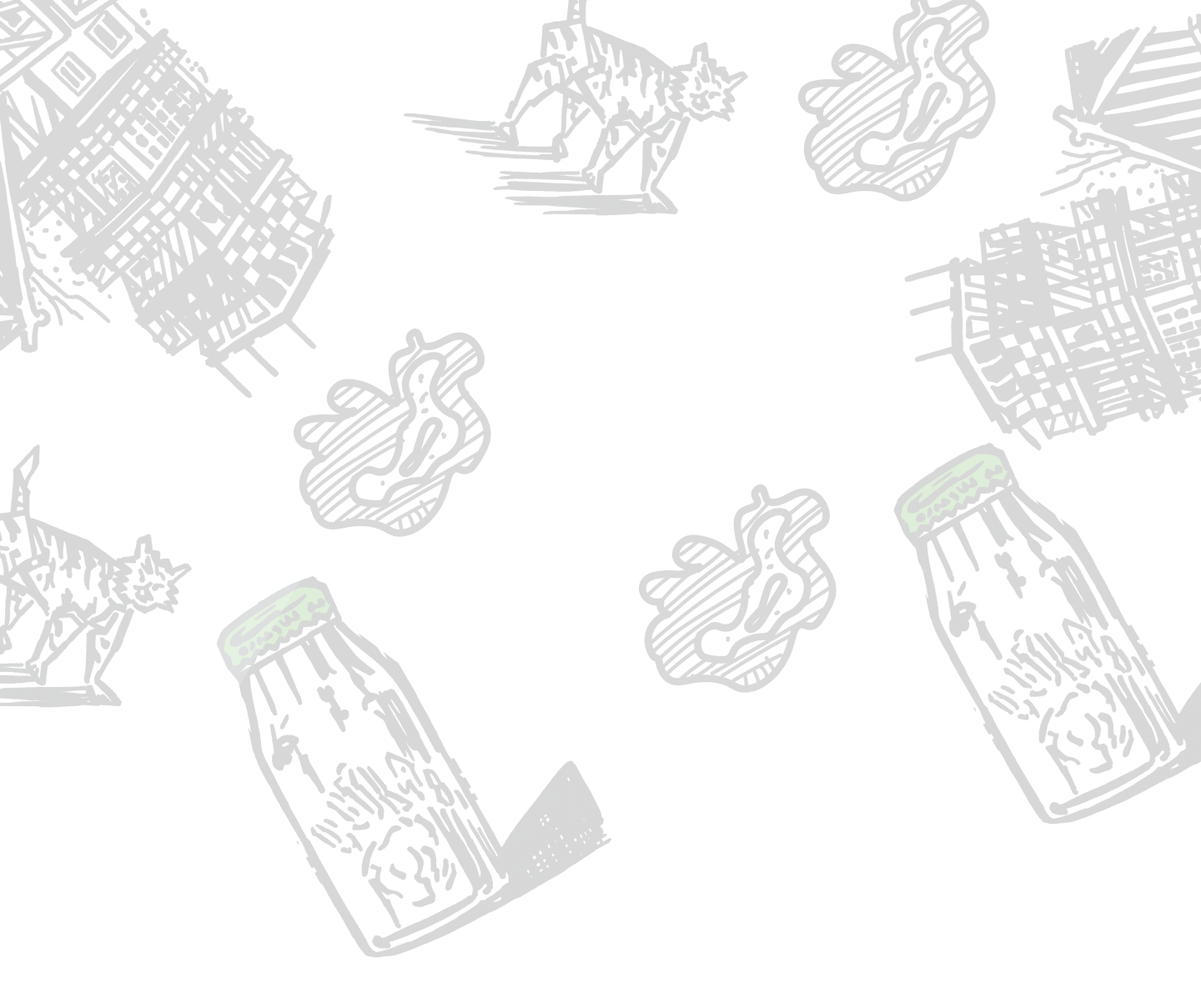
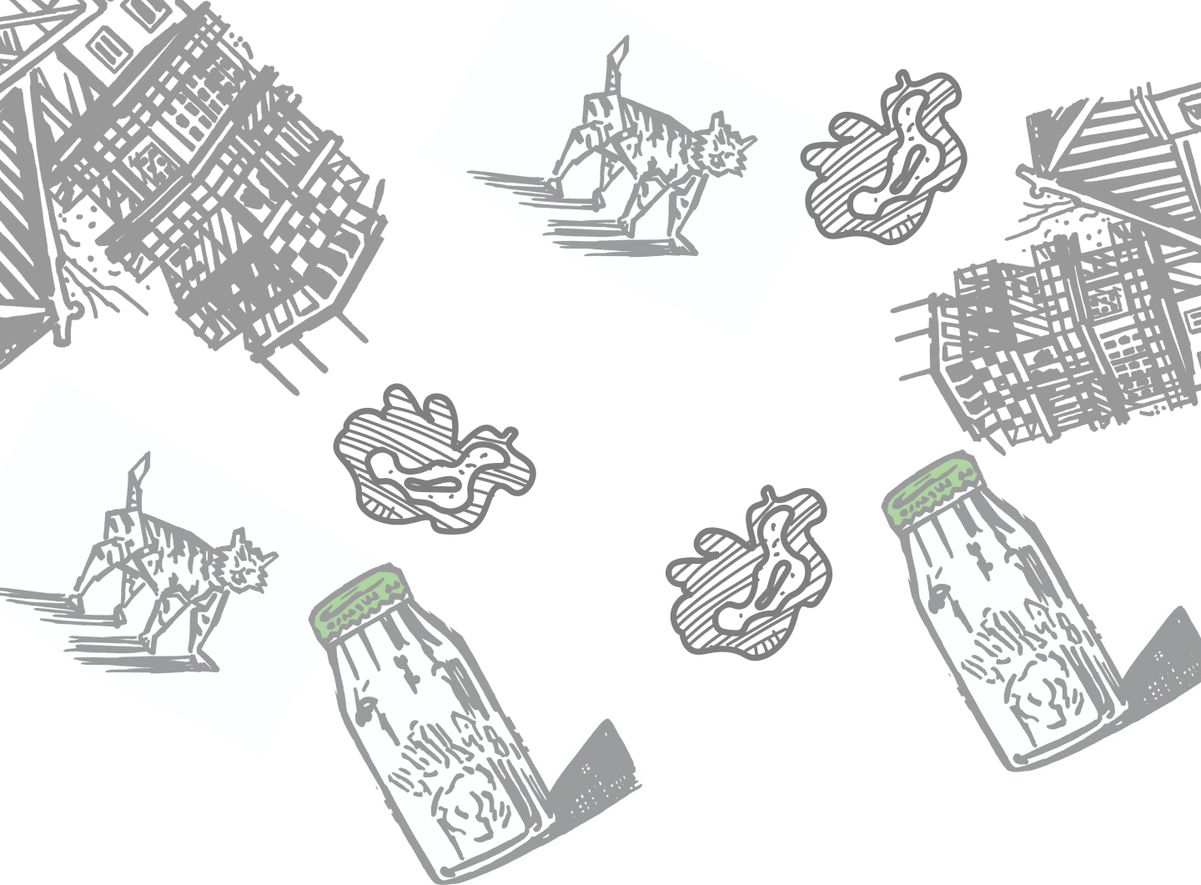
added new homepage layout. added all images from interactions. added what was missing on the first interaction.

diff --git a/css/application.css b/css/application.css
@@ -1,1 +1,1 @@
-@import url("https://fonts.googleapis.com/css2?family=Permanent+Marker&display=swap");html,body,div,span,.instructions .interaction-start p,.instructions .interaction-start nav .about-link,nav .instructions .interaction-start .about-link,object,iframe,h1,h2,h3,h4,h5,h6,p,nav .about-link,blockquote,pre,a,abbr,address,cite,code,del,dfn,em,img,ins,kbd,q,samp,img,input,button,.about .close-page,textarea,small,strong,sub,sup,var,b,u,i,dl,dt,dd,ol,ul,li,fieldset,form,label,legend,caption,table,thead,tbody,tfoot,th,tr,td,article,aside,canvas,details,figcaption,figure,footer,header,hgroup,main,menu,nav,section,summary,time,mark,audio,video{appearance:none;background:transparent;border:0;border-collapse:collapse;border-radius:0;border-spacing:0;box-sizing:border-box;font-family:inherit;font-size:100%;line-height:140%;list-style:none;margin:0;padding:0;resize:none;vertical-align:baseline}article,aside,details,figcaption,figure,footer,header,hgroup,main,menu,nav,section{display:block}input,select{vertical-align:middle}input[type="search"]::-ms-clear{display:none;height:0;width:0}input[type="search"]::-ms-reveal{display:none;height:0;width:0}input[type="search"]::-webkit-search-decoration,input[type="search"]::-webkit-search-cancel-button,input[type="search"]::-webkit-search-results-button,input[type="search"]::-webkit-search-results-decoration{display:none}html,body{height:100%}html{text-rendering:optimizeLegibility;font-kerning:normal;-webkit-font-smoothing:antialiased;-moz-osx-font-smoothing:grayscale;font-size:62.5%;text-size-adjust:100%}body{letter-spacing:0.01em;line-height:1}@keyframes fade-in{from{opacity:0}to{opacity:1}}@keyframes scale-up{from{transform:scale(0.8);opacity:0}to{transform:scale(1);opacity:1}}@font-face{font-family:"Monstarize";src:url("../fonts/Monstarize/MONSTARIZE.eot");src:url("../fonts/Monstarize/MONSTARIZE.eot?#iefix") format("embedded-opentype"),url("../fonts/Monstarize/MONSTARIZE.ttf") format("truetype"),url("../fonts/Monstarize/MONSTARIZE.svg#Monstarize") format("svg");font-weight:normal;font-style:normal}@font-face{font-family:"Helvetica";src:url("../fonts/Helvetica/Helvetica.eot");src:url("../fonts/Helvetica/Helvetica.eot?#iefix") format("embedded-opentype"),url("../fonts/Helvetica/Helvetica.ttf") format("truetype"),url("../fonts/Helvetica/Helvetica.svg#Helvetica") format("svg");font-weight:normal;font-style:normal}@font-face{font-family:"Helvetica Light";src:url("../fonts/Helvetica/Helvetica-Light.eot");src:url("../fonts/Helvetica/Helvetica-Light.eot?#iefix") format("embedded-opentype"),url("../fonts/Helvetica/Helvetica-Light.ttf") format("truetype"),url("../fonts/Helvetica/Helvetica-Light.svg#Helvetica Light") format("svg");font-weight:normal;font-style:normal}@font-face{font-family:"Helvetica Bold";src:url("../fonts/Helvetica/Helvetica-Bold.eot");src:url("../fonts/Helvetica/Helvetica-Bold.eot?#iefix") format("embedded-opentype"),url("../fonts/Helvetica/Helvetica-Bold.ttf") format("truetype"),url("../fonts/Helvetica/Helvetica-Bold.svg#Helvetica Bold") format("svg");font-weight:normal;font-style:normal}@font-face{font-family:"Helvetica Oblique";src:url("../fonts/Helvetica/Helvetica-Oblique.eot");src:url("../fonts/Helvetica/Helvetica-Oblique.eot?#iefix") format("embedded-opentype"),url("../fonts/Helvetica/Helvetica-Oblique.ttf") format("truetype"),url("../fonts/Helvetica/Helvetica-Oblique.svg#Helvetica Oblique") format("svg");font-weight:normal;font-style:normal}@font-face{font-family:"Helvetica Light Oblique";src:url("../fonts/Helvetica/Helvetica-LightOblique.eot");src:url("../fonts/Helvetica/Helvetica-LightOblique.eot?#iefix") format("embedded-opentype"),url("../fonts/Helvetica/Helvetica-LightOblique.ttf") format("truetype"),url("../fonts/Helvetica/Helvetica-LightOblique.svg#Helvetica Light Oblique") format("svg");font-weight:normal;font-style:normal}@font-face{font-family:"Helvetica Bold Oblique";src:url("../fonts/Helvetica/Helvetica-BoldOblique.eot");src:url("../fonts/Helvetica/Helvetica-BoldOblique.eot?#iefix") format("embedded-opentype"),url("../fonts/Helvetica/Helvetica-BoldOblique.ttf") format("truetype"),url("../fonts/Helvetica/Helvetica-BoldOblique.svg#Helvetica Bold Oblique") format("svg");font-weight:normal;font-style:normal}body{line-height:1.5;font-weight:400;font-size:1.4rem;font-family:"Permanent Marker", cursive;font-style:normal;color:#000;overflow-x:hidden}@media (min-width: 750px){body{font-size:calc(1.4rem + ((1.6 * 10) - (1.4 * 10)) * ((100vw - 650px) / 550))}}@media (min-width: 1000px){body{font-size:1.6rem}}.fixed-position{position:fixed}[data-whatintent="mouse"] a:focus,[data-whatintent="mouse"] button:focus,[data-whatintent="mouse"] .about .close-page:focus,.about [data-whatintent="mouse"] .close-page:focus,[data-whatintent="touch"] a:focus,[data-whatintent="touch"] button:focus,[data-whatintent="touch"] .about .close-page:focus,.about [data-whatintent="touch"] .close-page:focus{outline:none}a{color:#000;text-decoration:none}section{padding:2vh 2vw;overflow:hidden}span.underline,.instructions .interaction-start p.underline,.instructions .interaction-start nav .underline.about-link,nav .instructions .interaction-start .underline.about-link{background-image:linear-gradient(to bottom, rgba(235,100,170,0) 60%, #EA4A9D 60%);background-position:0 -0.3em;background-size:1px 1.5em}h1{line-height:1.5;font-weight:400;font-size:3rem}@media (min-width: 750px){h1{font-size:calc(3rem + ((4.5 * 10) - (3 * 10)) * ((100vw - 650px) / 550))}}@media (min-width: 1000px){h1{font-size:4.5rem}}h1.big,nav .logo h1{line-height:1.5;font-weight:400;font-size:7rem}@media (min-width: 750px){h1.big,nav .logo h1{font-size:calc(7rem + ((10.8 * 10) - (7 * 10)) * ((100vw - 650px) / 550))}}@media (min-width: 1000px){h1.big,nav .logo h1{font-size:10.8rem}}h2{line-height:1.5;font-weight:700;font-size:2.4rem}@media (min-width: 750px){h2{font-size:calc(2.4rem + ((2.8 * 10) - (2.4 * 10)) * ((100vw - 650px) / 550))}}@media (min-width: 1000px){h2{font-size:2.8rem}}h2.big,nav .logo h2{line-height:1.5;font-weight:400;font-size:5rem}@media (min-width: 750px){h2.big,nav .logo h2{font-size:calc(5rem + ((7 * 10) - (5 * 10)) * ((100vw - 650px) / 550))}}@media (min-width: 1000px){h2.big,nav .logo h2{font-size:7rem}}h3{line-height:1.5;font-weight:700;font-size:2rem}@media (min-width: 750px){h3{font-size:calc(2rem + ((2.4 * 10) - (2 * 10)) * ((100vw - 650px) / 550))}}@media (min-width: 1000px){h3{font-size:2.4rem}}p,nav .about-link,ul,li,q,address{font-family:"Helvetica", sans-serif;line-height:1.5;font-weight:400;font-size:2rem}@media (min-width: 750px){p,nav .about-link,ul,li,q,address{font-size:calc(2rem + ((2.4 * 10) - (2 * 10)) * ((100vw - 650px) / 550))}}@media (min-width: 1000px){p,nav .about-link,ul,li,q,address{font-size:2.4rem}}p.pink,nav .pink.about-link,ul.pink,li.pink,q.pink,address.pink{color:#EB64AA}button,.about .close-page{line-height:1.5;font-weight:400;font-size:2.5rem}@media (min-width: 750px){button,.about .close-page{font-size:calc(2.5rem + ((3.5 * 10) - (2.5 * 10)) * ((100vw - 650px) / 550))}}@media (min-width: 1000px){button,.about .close-page{font-size:3.5rem}}span,.instructions .interaction-start p,.instructions .interaction-start nav .about-link,nav .instructions .interaction-start .about-link{text-transform:uppercase;font-family:"Helvetica", sans-serif;line-height:1.5;font-weight:400;font-size:1.4rem}@media (min-width: 750px){span,.instructions .interaction-start p,.instructions .interaction-start nav .about-link,nav .instructions .interaction-start .about-link{font-size:calc(1.4rem + ((1.8 * 10) - (1.4 * 10)) * ((100vw - 650px) / 550))}}@media (min-width: 1000px){span,.instructions .interaction-start p,.instructions .interaction-start nav .about-link,nav .instructions .interaction-start .about-link{font-size:1.8rem}}@keyframes pulse{0%{transform:scale(0.95);box-shadow:0 0 0 0 rgba(234,74,157,0.7)}70%{transform:scale(1);box-shadow:0 0 0 10px rgba(234,74,157,0)}100%{transform:scale(0.95);box-shadow:0 0 0 0 rgba(234,74,157,0)}}@-webkit-keyframes pulsate{0%{opacity:0.6}50%{opacity:1.0}100%{opacity:0.6}}nav{width:100vw;height:80vh;padding:2vh 2vw;position:fixed;z-index:1}nav.adjust-size{height:fit-content;height:-webkit-fit-content}nav .link{height:fit-content;width:fit-content;height:-webkit-fit-content;width:-webkit-fit-content;cursor:pointer}nav .link:hover{color:#EA4A9D}nav .about-link{letter-spacing:-1px;font-family:"Helvetica Bold", sans-serif;float:right}nav .logo{width:fit-content;width:-webkit-fit-content;margin:320px auto auto 33%;transition:all 1s ease-out}nav .logo h1,nav .logo h2{width:fit-content;width:-webkit-fit-content;margin:auto}nav .logo h1{transition:all 1s ease-out}nav .logo h2{font-family:"Helvetica Bold", sans-serif;letter-spacing:-1px;line-height:30%;transition:all 1s ease-out}nav .logo.adjust-position{margin-top:0;margin-left:0}nav .logo.adjust-position h1{line-height:1.5;font-weight:400;font-size:3rem;color:#4C9054}@media (min-width: 750px){nav .logo.adjust-position h1{font-size:calc(3rem + ((4.5 * 10) - (3 * 10)) * ((100vw - 650px) / 550))}}@media (min-width: 1000px){nav .logo.adjust-position h1{font-size:4.5rem}}nav .logo.adjust-position h2{line-height:1.5;font-weight:700;font-size:2.4rem;color:#4C9054;line-height:10%}@media (min-width: 750px){nav .logo.adjust-position h2{font-size:calc(2.4rem + ((2.8 * 10) - (2.4 * 10)) * ((100vw - 650px) / 550))}}@media (min-width: 1000px){nav .logo.adjust-position h2{font-size:2.8rem}}.cover{width:900px;height:691.2px;box-shadow:0 0 300px rgba(0,0,0,0.3);margin:40px auto 0 auto}.book{width:100%;height:100%;display:flex;perspective:2000px}.book p,.book nav .about-link,nav .book .about-link{font-size:12px}.book-page{position:relative;width:50%;height:100%;display:grid;transform:rotateY(0deg);transition:transform 0.9s cubic-bezier(0.645, 0.045, 0.355, 1);transform-origin:0% 0%;background-color:#FAFAFA;background-image:linear-gradient(90deg, #e3e3e3 0%, rgba(247,247,247,0) 18%)}.book-page:nth-of-type(1){background-image:linear-gradient(-90deg, #e3e3e3 0%, rgba(247,247,247,0) 18%)}.book-page--1{cursor:pointer;overflow:hidden}.book-page--1 img{width:auto;max-width:100%;height:80%}.book-page--2{position:absolute;right:0;pointer-events:none;transform-style:preserve-3d;background-color:#FAFAFA;background-image:linear-gradient(90deg, #e3e3e3 0%, rgba(247,247,247,0) 18%)}.book-page--4{cursor:pointer;padding:0 36px}.book-page--front{position:absolute;width:100%;height:100%;transform:rotateY(0deg) translateZ(1px);overflow:hidden}.book-page--front img{padding:32px;width:100%}.book-page--back{position:absolute;width:100%;height:100%;padding:0 21.6px;transform:rotateY(180deg) translateZ(1px)}.book-page .page-content{padding:24px;height:100%;position:relative}.book-page .page-content.double-column{display:grid;grid-template-columns:repeat(2, 1fr);grid-template-rows:min-content;grid-gap:16px;padding:0 32px;margin:24px 0}.book-page .page-content-title{letter-spacing:1px;margin-top:18px;margin-bottom:36px}.book-page .page-content-blockquote{padding:0 16px;margin:24px 0}.book input[type="radio"]:checked+.book-page{transition:transform 0.9s cubic-bezier(0.645, 0.045, 0.355, 1);transform:rotateY(-180deg)}.instructions{width:100vw;height:100vh;display:flex;flex-direction:column;justify-content:center;align-items:center}.instructions .content-wrapper{width:50%}.instructions .content-wrapper h1{color:#EA4A9D;margin-bottom:16px}.instructions .interaction-start{position:absolute;bottom:-90vh;width:15%;height:fit-content;height:-webkit-fit-content;text-align:center}.instructions .interaction-start p,.instructions .interaction-start nav .about-link,nav .instructions .interaction-start .about-link{text-transform:initial;font-family:"Helvetica Light", sans-serif;animation:pulsate 1s ease-out;animation-iteration-count:infinite;-webkit-animation:pulsate 1s ease-out;-webkit-animation-iteration-count:infinite;opacity:0.6}.interaction-one{position:relative;width:100vw;height:100vh;display:flex;justify-content:flex-end;align-items:flex-end;background-image:url("../media/svg/fundo.svg");background-size:cover;background-position:center}.interaction-one .drag-start{width:30rem;height:60rem;position:absolute;left:640px;top:64px}.interaction-one .drag-end{position:relative;z-index:-1;width:4rem;height:4rem;border-radius:32px;border:solid 1px #EA4A9D;margin:128px auto 0 auto;box-shadow:0 0 0 0 #ea4a9d;transform:scale(1);animation:pulse 2s infinite}.interaction-one .drag-instruction{z-index:1;background-color:#EA4A9D;width:50rem;height:fit-content;height:-webkit-fit-content;border-radius:8px;padding:16px;box-shadow:2px 5px 6px 0 rgba(0,0,0,0.25);margin:0 24px 32px 0}.interaction-one .drag-instruction p,.interaction-one .drag-instruction nav .about-link,nav .interaction-one .drag-instruction .about-link{font-family:"Permanent Marker", cursive;color:#FAFAFA}.interaction-two{width:100vw;height:100vh;background-image:url("../media/book1.jpg");background-size:contain;background-position:center;background-repeat:no-repeat}.homepage{width:100vw;height:100vh;display:flex;flex-direction:column;align-items:center;justify-content:space-between}.homepage::before{content:"";background-image:url("../media/fundo.png");background-size:cover;background-position:center;top:0;left:0;bottom:-40vh;right:0;position:absolute;z-index:-1}.homepage::after{content:"";background-image:url("../media/banner.png");background-size:100vw 200vh;background-position:center;background-repeat:no-repeat;top:0;left:0;right:0;bottom:-100vh;position:absolute;z-index:-1}.homepage .chevron-down{position:absolute;bottom:0;cursor:pointer;margin-bottom:24px}.about{width:100vw;height:100vh;position:fixed;background-color:#D7D7D7;top:0;bottom:0;left:100vw;right:-100vw;z-index:10;transition:all 1s ease}.about.opened{left:0;right:0}.about .close-page{line-height:80%;float:right;cursor:pointer}.about .close-page:hover{color:#EA4A9D}.about .info-wrapper{width:fit-content;width:-webkit-fit-content;margin:32px auto;text-align:center}.about .info-wrapper .book-author:before{content:"—"}.about .book-wrapper{perspective:2000px}
+@import url("https://fonts.googleapis.com/css2?family=Permanent+Marker&display=swap");html,body,div,span,.instructions .interaction-start p,.instructions .interaction-start nav .about-link,nav .instructions .interaction-start .about-link,object,iframe,h1,h2,h3,h4,h5,h6,p,nav .about-link,blockquote,pre,a,abbr,address,cite,code,del,dfn,em,img,ins,kbd,q,samp,img,input,button,.about .close-page,textarea,small,strong,sub,sup,var,b,u,i,dl,dt,dd,ol,ul,li,fieldset,form,label,legend,caption,table,thead,tbody,tfoot,th,tr,td,article,aside,canvas,details,figcaption,figure,footer,header,hgroup,main,menu,nav,section,summary,time,mark,audio,video{appearance:none;background:transparent;border:0;border-collapse:collapse;border-radius:0;border-spacing:0;box-sizing:border-box;font-family:inherit;font-size:100%;line-height:140%;list-style:none;margin:0;padding:0;resize:none;vertical-align:baseline}article,aside,details,figcaption,figure,footer,header,hgroup,main,menu,nav,section{display:block}input,select{vertical-align:middle}input[type="search"]::-ms-clear{display:none;height:0;width:0}input[type="search"]::-ms-reveal{display:none;height:0;width:0}input[type="search"]::-webkit-search-decoration,input[type="search"]::-webkit-search-cancel-button,input[type="search"]::-webkit-search-results-button,input[type="search"]::-webkit-search-results-decoration{display:none}html,body{height:100%}html{text-rendering:optimizeLegibility;font-kerning:normal;-webkit-font-smoothing:antialiased;-moz-osx-font-smoothing:grayscale;font-size:62.5%;text-size-adjust:100%}body{letter-spacing:0.01em;line-height:1}@keyframes fade-in{from{opacity:0}to{opacity:1}}@keyframes scale-up{from{transform:scale(0.8);opacity:0}to{transform:scale(1);opacity:1}}@font-face{font-family:"Monstarize";src:url("../fonts/Monstarize/MONSTARIZE.eot");src:url("../fonts/Monstarize/MONSTARIZE.eot?#iefix") format("embedded-opentype"),url("../fonts/Monstarize/MONSTARIZE.ttf") format("truetype"),url("../fonts/Monstarize/MONSTARIZE.svg#Monstarize") format("svg");font-weight:normal;font-style:normal}@font-face{font-family:"Helvetica";src:url("../fonts/Helvetica/Helvetica.eot");src:url("../fonts/Helvetica/Helvetica.eot?#iefix") format("embedded-opentype"),url("../fonts/Helvetica/Helvetica.ttf") format("truetype"),url("../fonts/Helvetica/Helvetica.svg#Helvetica") format("svg");font-weight:normal;font-style:normal}@font-face{font-family:"Helvetica Light";src:url("../fonts/Helvetica/Helvetica-Light.eot");src:url("../fonts/Helvetica/Helvetica-Light.eot?#iefix") format("embedded-opentype"),url("../fonts/Helvetica/Helvetica-Light.ttf") format("truetype"),url("../fonts/Helvetica/Helvetica-Light.svg#Helvetica Light") format("svg");font-weight:normal;font-style:normal}@font-face{font-family:"Helvetica Bold";src:url("../fonts/Helvetica/Helvetica-Bold.eot");src:url("../fonts/Helvetica/Helvetica-Bold.eot?#iefix") format("embedded-opentype"),url("../fonts/Helvetica/Helvetica-Bold.ttf") format("truetype"),url("../fonts/Helvetica/Helvetica-Bold.svg#Helvetica Bold") format("svg");font-weight:normal;font-style:normal}@font-face{font-family:"Helvetica Oblique";src:url("../fonts/Helvetica/Helvetica-Oblique.eot");src:url("../fonts/Helvetica/Helvetica-Oblique.eot?#iefix") format("embedded-opentype"),url("../fonts/Helvetica/Helvetica-Oblique.ttf") format("truetype"),url("../fonts/Helvetica/Helvetica-Oblique.svg#Helvetica Oblique") format("svg");font-weight:normal;font-style:normal}@font-face{font-family:"Helvetica Light Oblique";src:url("../fonts/Helvetica/Helvetica-LightOblique.eot");src:url("../fonts/Helvetica/Helvetica-LightOblique.eot?#iefix") format("embedded-opentype"),url("../fonts/Helvetica/Helvetica-LightOblique.ttf") format("truetype"),url("../fonts/Helvetica/Helvetica-LightOblique.svg#Helvetica Light Oblique") format("svg");font-weight:normal;font-style:normal}@font-face{font-family:"Helvetica Bold Oblique";src:url("../fonts/Helvetica/Helvetica-BoldOblique.eot");src:url("../fonts/Helvetica/Helvetica-BoldOblique.eot?#iefix") format("embedded-opentype"),url("../fonts/Helvetica/Helvetica-BoldOblique.ttf") format("truetype"),url("../fonts/Helvetica/Helvetica-BoldOblique.svg#Helvetica Bold Oblique") format("svg");font-weight:normal;font-style:normal}body{line-height:1.5;font-weight:400;font-size:1.4rem;font-family:"Permanent Marker", cursive;font-style:normal;color:#000;overflow-x:hidden}@media (min-width: 750px){body{font-size:calc(1.4rem + ((1.6 * 10) - (1.4 * 10)) * ((100vw - 650px) / 550))}}@media (min-width: 1000px){body{font-size:1.6rem}}.fixed-position{position:fixed}[data-whatintent="mouse"] a:focus,[data-whatintent="mouse"] button:focus,[data-whatintent="mouse"] .about .close-page:focus,.about [data-whatintent="mouse"] .close-page:focus,[data-whatintent="touch"] a:focus,[data-whatintent="touch"] button:focus,[data-whatintent="touch"] .about .close-page:focus,.about [data-whatintent="touch"] .close-page:focus{outline:none}a{color:#000;text-decoration:none}section{padding:2vh 2vw;overflow:hidden}span.underline,.instructions .interaction-start p.underline,.instructions .interaction-start nav .underline.about-link,nav .instructions .interaction-start .underline.about-link{background-image:linear-gradient(to bottom, rgba(235,100,170,0) 60%, #EA4A9D 60%);background-position:0 -0.3em;background-size:1px 1.5em}h1{line-height:1.5;font-weight:400;font-size:3rem}@media (min-width: 750px){h1{font-size:calc(3rem + ((4.5 * 10) - (3 * 10)) * ((100vw - 650px) / 550))}}@media (min-width: 1000px){h1{font-size:4.5rem}}h1.big,nav .logo h1{line-height:1.5;font-weight:400;font-size:7rem}@media (min-width: 750px){h1.big,nav .logo h1{font-size:calc(7rem + ((10.8 * 10) - (7 * 10)) * ((100vw - 650px) / 550))}}@media (min-width: 1000px){h1.big,nav .logo h1{font-size:10.8rem}}h2{line-height:1.5;font-weight:700;font-size:2.4rem}@media (min-width: 750px){h2{font-size:calc(2.4rem + ((2.8 * 10) - (2.4 * 10)) * ((100vw - 650px) / 550))}}@media (min-width: 1000px){h2{font-size:2.8rem}}h2.big,nav .logo h2{line-height:1.5;font-weight:400;font-size:5rem}@media (min-width: 750px){h2.big,nav .logo h2{font-size:calc(5rem + ((7 * 10) - (5 * 10)) * ((100vw - 650px) / 550))}}@media (min-width: 1000px){h2.big,nav .logo h2{font-size:7rem}}h3{line-height:1.5;font-weight:700;font-size:2rem}@media (min-width: 750px){h3{font-size:calc(2rem + ((2.4 * 10) - (2 * 10)) * ((100vw - 650px) / 550))}}@media (min-width: 1000px){h3{font-size:2.4rem}}p,nav .about-link,ul,li,q,address{font-family:"Helvetica", sans-serif;line-height:1.5;font-weight:400;font-size:2rem}@media (min-width: 750px){p,nav .about-link,ul,li,q,address{font-size:calc(2rem + ((2.4 * 10) - (2 * 10)) * ((100vw - 650px) / 550))}}@media (min-width: 1000px){p,nav .about-link,ul,li,q,address{font-size:2.4rem}}p.pink,nav .pink.about-link,ul.pink,li.pink,q.pink,address.pink{color:#EB64AA}button,.about .close-page{line-height:1.5;font-weight:400;font-size:2.5rem}@media (min-width: 750px){button,.about .close-page{font-size:calc(2.5rem + ((3.5 * 10) - (2.5 * 10)) * ((100vw - 650px) / 550))}}@media (min-width: 1000px){button,.about .close-page{font-size:3.5rem}}span,.instructions .interaction-start p,.instructions .interaction-start nav .about-link,nav .instructions .interaction-start .about-link{text-transform:uppercase;font-family:"Helvetica", sans-serif;line-height:1.5;font-weight:400;font-size:1.4rem}@media (min-width: 750px){span,.instructions .interaction-start p,.instructions .interaction-start nav .about-link,nav .instructions .interaction-start .about-link{font-size:calc(1.4rem + ((1.8 * 10) - (1.4 * 10)) * ((100vw - 650px) / 550))}}@media (min-width: 1000px){span,.instructions .interaction-start p,.instructions .interaction-start nav .about-link,nav .instructions .interaction-start .about-link{font-size:1.8rem}}@keyframes pulse{0%{transform:scale(0.95);box-shadow:0 0 0 0 rgba(234,74,157,0.7)}70%{transform:scale(1);box-shadow:0 0 0 10px rgba(234,74,157,0)}100%{transform:scale(0.95);box-shadow:0 0 0 0 rgba(234,74,157,0)}}@-webkit-keyframes pulsate{0%{opacity:0.6}50%{opacity:1.0}100%{opacity:0.6}}nav{width:100vw;height:80vh;padding:2vh 2vw;position:fixed;z-index:1}nav.adjust-size{height:fit-content;height:-webkit-fit-content}nav .link{height:fit-content;width:fit-content;height:-webkit-fit-content;width:-webkit-fit-content;cursor:pointer}nav .link:hover{color:#EA4A9D}nav .about-link{letter-spacing:-1px;font-family:"Helvetica Bold", sans-serif;float:right}nav .logo{width:fit-content;width:-webkit-fit-content;margin:320px auto auto 33%;transition:all 1s ease-out}nav .logo h1,nav .logo h2{width:fit-content;width:-webkit-fit-content;margin:auto}nav .logo h1{transition:all 1s ease-out}nav .logo h2{font-family:"Helvetica Bold", sans-serif;letter-spacing:-1px;line-height:30%;transition:all 1s ease-out}nav .logo.adjust-position{margin-top:0;margin-left:0}nav .logo.adjust-position h1{line-height:1.5;font-weight:400;font-size:3rem;color:#4C9054}@media (min-width: 750px){nav .logo.adjust-position h1{font-size:calc(3rem + ((4.5 * 10) - (3 * 10)) * ((100vw - 650px) / 550))}}@media (min-width: 1000px){nav .logo.adjust-position h1{font-size:4.5rem}}nav .logo.adjust-position h2{line-height:1.5;font-weight:700;font-size:2.4rem;color:#4C9054;line-height:10%}@media (min-width: 750px){nav .logo.adjust-position h2{font-size:calc(2.4rem + ((2.8 * 10) - (2.4 * 10)) * ((100vw - 650px) / 550))}}@media (min-width: 1000px){nav .logo.adjust-position h2{font-size:2.8rem}}.cover{width:900px;height:691.2px;box-shadow:0 0 300px rgba(0,0,0,0.3);margin:40px auto 0 auto}.book{width:100%;height:100%;display:flex;perspective:2000px}.book p,.book nav .about-link,nav .book .about-link{font-size:12px}.book-page{position:relative;width:50%;height:100%;display:grid;transform:rotateY(0deg);transition:transform 0.9s cubic-bezier(0.645, 0.045, 0.355, 1);transform-origin:0% 0%;background-color:#FAFAFA;background-image:linear-gradient(90deg, #e3e3e3 0%, rgba(247,247,247,0) 18%)}.book-page:nth-of-type(1){background-image:linear-gradient(-90deg, #e3e3e3 0%, rgba(247,247,247,0) 18%)}.book-page--1{cursor:pointer;overflow:hidden}.book-page--1 img{width:auto;max-width:100%;height:80%}.book-page--2{position:absolute;right:0;pointer-events:none;transform-style:preserve-3d;background-color:#FAFAFA;background-image:linear-gradient(90deg, #e3e3e3 0%, rgba(247,247,247,0) 18%)}.book-page--4{cursor:pointer;padding:0 36px}.book-page--front{position:absolute;width:100%;height:100%;transform:rotateY(0deg) translateZ(1px);overflow:hidden}.book-page--front img{padding:32px;width:100%}.book-page--back{position:absolute;width:100%;height:100%;padding:0 21.6px;transform:rotateY(180deg) translateZ(1px)}.book-page .page-content{padding:24px;height:100%;position:relative}.book-page .page-content.double-column{display:grid;grid-template-columns:repeat(2, 1fr);grid-template-rows:min-content;grid-gap:16px;padding:0 32px;margin:24px 0}.book-page .page-content-title{letter-spacing:1px;margin-top:18px;margin-bottom:36px}.book-page .page-content-blockquote{padding:0 16px;margin:24px 0}.book input[type="radio"]:checked+.book-page{transition:transform 0.9s cubic-bezier(0.645, 0.045, 0.355, 1);transform:rotateY(-180deg)}.instructions{width:100vw;height:100vh;display:flex;flex-direction:column;justify-content:center}.instructions .content-wrapper{width:30%;margin-left:32px}.instructions .content-wrapper h1{color:#000;margin-bottom:16px}.instructions .interaction-start{position:absolute;bottom:-90vh;width:fit-content;width:-webkit-fit-content;height:fit-content;height:-webkit-fit-content;margin-left:32px}.instructions .interaction-start p,.instructions .interaction-start nav .about-link,nav .instructions .interaction-start .about-link{text-transform:initial;font-family:"Helvetica Light", sans-serif;animation:pulsate 1s ease-out;animation-iteration-count:infinite;-webkit-animation:pulsate 1s ease-out;-webkit-animation-iteration-count:infinite;opacity:0.6}.instructions .interaction-start p span,.instructions .interaction-start nav .about-link span,nav .instructions .interaction-start .about-link span,.instructions .interaction-start p p,.instructions .interaction-start nav .about-link p,nav .instructions .interaction-start .about-link p,.instructions .interaction-start p nav .about-link,.instructions .interaction-start nav p .about-link,.instructions .interaction-start nav .about-link .about-link,nav .instructions .interaction-start p .about-link,nav .instructions .interaction-start .about-link .about-link{position:relative;font-family:"Permanent Marker", cursive;line-height:1.5;font-weight:400;font-size:2rem}@media (min-width: 750px){.instructions .interaction-start p span,.instructions .interaction-start nav .about-link span,nav .instructions .interaction-start .about-link span,.instructions .interaction-start p p,.instructions .interaction-start nav .about-link p,nav .instructions .interaction-start .about-link p,.instructions .interaction-start p nav .about-link,.instructions .interaction-start nav p .about-link,.instructions .interaction-start nav .about-link .about-link,nav .instructions .interaction-start p .about-link,nav .instructions .interaction-start .about-link .about-link{font-size:calc(2rem + ((2.4 * 10) - (2 * 10)) * ((100vw - 650px) / 550))}}@media (min-width: 1000px){.instructions .interaction-start p span,.instructions .interaction-start nav .about-link span,nav .instructions .interaction-start .about-link span,.instructions .interaction-start p p,.instructions .interaction-start nav .about-link p,nav .instructions .interaction-start .about-link p,.instructions .interaction-start p nav .about-link,.instructions .interaction-start nav p .about-link,.instructions .interaction-start nav .about-link .about-link,nav .instructions .interaction-start p .about-link,nav .instructions .interaction-start .about-link .about-link{font-size:2.4rem}}.instructions .interaction-start p span::before,.instructions .interaction-start nav .about-link span::before,nav .instructions .interaction-start .about-link span::before,.instructions .interaction-start p p::before,.instructions .interaction-start nav .about-link p::before,nav .instructions .interaction-start .about-link p::before,.instructions .interaction-start p nav .about-link::before,.instructions .interaction-start nav p .about-link::before,.instructions .interaction-start nav .about-link .about-link::before,nav .instructions .interaction-start p .about-link::before,nav .instructions .interaction-start .about-link .about-link::before{content:'';background-image:url("../media/enter.svg");background-size:100%;background-position:right;background-repeat:no-repeat;top:-5vh;left:0;bottom:-5vh;right:0;position:absolute;z-index:-1}.interaction-one{position:relative;width:100vw;height:100vh;display:flex;justify-content:flex-end;align-items:flex-end;background-image:url("../media/svg/fundo.svg");background-size:cover;background-position:center}.interaction-one .interaction-hover{display:none}.interaction-one .interaction-hover.displayed{position:absolute;display:flex;justify-content:center;width:100%;top:-30vh;left:0}.interaction-one .cell--no-interaction{width:30rem;height:60rem;position:absolute}.interaction-one .cell--no-interaction.first{left:160px;top:calc(100vh - 90rem)}.interaction-one .cell--no-interaction.second{left:1280px;top:calc(100vh - 100rem)}.interaction-one .drag-start{width:30rem;height:60rem;position:absolute;left:640px;top:calc(100vh - 60rem)}.interaction-one .drag-end{display:none}.interaction-one .drag-end.displayed{display:flex;position:relative;z-index:-1;width:4rem;height:4rem;border-radius:32px;border:solid 1px #EA4A9D;margin:128px auto 0 auto;box-shadow:0 0 0 0 #ea4a9d;transform:scale(1);animation:pulse 2s infinite}.interaction-one .drag-instruction{z-index:1;background-color:#EA4A9D;width:50rem;height:fit-content;height:-webkit-fit-content;border-radius:8px;padding:16px;box-shadow:2px 5px 6px 0 rgba(0,0,0,0.25);margin:0 24px 32px 0}.interaction-one .drag-instruction p,.interaction-one .drag-instruction nav .about-link,nav .interaction-one .drag-instruction .about-link{font-family:"Permanent Marker", cursive;color:#FAFAFA}.interaction-two{width:100vw;height:100vh;background-image:url("../media/book1.jpg");background-size:contain;background-position:center;background-repeat:no-repeat}.homepage{width:100vw;height:100vh;display:flex;flex-direction:column;align-items:center;justify-content:space-between}.homepage::before{content:"";background-image:url("../media/fundo.png");background-size:100vw;background-position:center;background-repeat:no-repeat;opacity:0.5;top:0;left:0;bottom:-30vh;right:0;position:absolute;z-index:-1}.homepage::after{content:"";background-image:url("../media/banner.svg");background-size:100vw 200vh;background-position:8vw;background-repeat:no-repeat;mix-blend-mode:multiply;top:0;left:0;right:0;bottom:-100vh;position:absolute;z-index:-1}.homepage .chevron-down{position:absolute;bottom:0;cursor:pointer;margin-bottom:24px}.about{width:100vw;height:100vh;position:fixed;background-color:#D7D7D7;top:0;bottom:0;left:100vw;right:-100vw;z-index:10;transition:all 1s ease}.about.opened{left:0;right:0}.about .close-page{line-height:80%;float:right;cursor:pointer}.about .close-page:hover{color:#EA4A9D}.about .info-wrapper{width:fit-content;width:-webkit-fit-content;margin:32px auto;text-align:center}.about .info-wrapper .book-author:before{content:"—"}.about .book-wrapper{perspective:2000px}

diff --git a/css/sections/_interaction-one.scss b/css/sections/_interaction-one.scss
@@ -9,26 +9,65 @@
   background-size: cover;
   background-position: center;
 
+  .interaction-hover {
+    display: none;
+
+    &.displayed {
+      position: absolute;
+      display: flex;
+      justify-content: center;
+      width: 100%;
+      top: -30vh;
+      left: 0;
+      // animation: pulsate .5s ease-out;
+      // animation-iteration-count: infinite;
+      // -webkit-animation: pulsate .5s ease-out;
+      // -webkit-animation-iteration-count: infinite;
+      // opacity: 0.2;
+    }
+  }
+
+  .cell--no-interaction {
+    width: 30rem;
+    height: 60rem;
+    position: absolute;
+
+    &.first {
+      left: $lg * 5;
+      top: calc(100vh - 90rem);
+    }
+
+    &.second {
+      left: $lg * 40;
+      top: calc(100vh - 100rem);
+    }
+  }
+
   .drag-start {
     width: 30rem;
     height: 60rem;
     position: absolute;
     left: $lg * 20;
-    top: $lg * 2;
+    top: calc(100vh - 60rem);
   }
 
   .drag-end {
-    position: relative;
-    z-index: -1;
-    width: 4rem;
-    height: 4rem;
-    border-radius: $lg;
-    border: solid 1px $pink-400;
-    margin: ($xxl * 1.6) auto 0 auto;
+    display: none;
 
-    box-shadow: 0 0 0 0 rgba($pink-400, 1);
-    transform: scale(1);
-    animation: pulse 2s infinite;
+    &.displayed {
+      display: flex;
+      position: relative;
+      z-index: -1;
+      width: 4rem;
+      height: 4rem;
+      border-radius: $lg;
+      border: solid 1px $pink-400;
+      margin: ($xxl * 1.6) auto 0 auto;
+
+      box-shadow: 0 0 0 0 rgba($pink-400, 1);
+      transform: scale(1);
+      animation: pulse 2s infinite;
+    }
   }
 
   .drag-instruction {

diff --git a/index.html b/index.html
@@ -18,7 +18,7 @@
       src="https://ajax.googleapis.com/ajax/libs/jqueryui/1.12.1/jquery-ui.min.js"
       type="text/javascript"
     ></script>
-    <script src="js/index.js"></script>
+    <!-- <script src="js/index.js"></script> -->
     <script src="js/all.js"></script>
   </head>
   <body>
@@ -51,7 +51,7 @@
         </p>
       </div>
       <div class="interaction-start" id="interaction-start">
-        <p class="pink">Para começar, clica ENTER</p>
+        <p>Para começar, pressione a tecla <span>ENTER.</span></p>
         </div>
       </div>
     </section>
@@ -152,6 +152,17 @@
       </div>
     </section>
     <section class="interaction-one" id="interaction-one" style="display: none;">
+      <img id="interaction-hover" class="interaction-hover" src="media/interactions/medo.png" alt="MEDO">
+      <img
+        class="cell--no-interaction first"
+        src="media/svg/cell.svg"
+        alt=""
+      />
+      <img
+        class="cell--no-interaction second"
+        src="media/svg/cell.svg"
+        alt=""
+      />
       <div class="drag-start">
         <img
           class="cell-drag"
@@ -160,7 +171,7 @@
           src="media/svg/cell.svg"
           alt=""
         />
-        <div class="drag-end"></div>
+        <div id="drag-end" class="drag-end"></div>
       </div>
       <div class="drag-instruction">
         <p>

diff --git a/css/sections/_instructions.scss b/css/sections/_instructions.scss
@@ -4,13 +4,13 @@
   display: flex;
   flex-direction: column;
   justify-content: center;
-  align-items: center;
 
   .content-wrapper {
-    width: 50%;
+    width: 30%;
+    margin-left: $lg;
 
     h1 {
-      color: $pink-400;
+      color: $black;
       margin-bottom: $sm;
     }
   }
@@ -18,10 +18,11 @@
   .interaction-start {
     position: absolute;
     bottom: -90vh;
-    width: 15%;
+    width: fit-content;
+    width: -webkit-fit-content;
     height: fit-content;
     height: -webkit-fit-content;
-    text-align: center;
+    margin-left: $lg;
 
     p {
       @extend span;
@@ -32,6 +33,26 @@
       -webkit-animation: pulsate 1s ease-out;
       -webkit-animation-iteration-count: infinite;
       opacity: 0.6;
+
+      span {
+        position: relative;
+        font-family: "Permanent Marker", cursive;
+        @include responsive_font($min: 2, $max: 2.4);
+
+        &::before {
+          content: '';
+          background-image: url('../media/enter.svg');
+          background-size: 100%;
+          background-position: right;
+          background-repeat: no-repeat;
+          top: -5vh;
+          left: 0;
+          bottom: -5vh;
+          right: 0;
+          position: absolute;
+          z-index: -1;
+        }
+      }
     }
   }
 }

diff --git a/css/pages/_homepage.scss b/css/pages/_homepage.scss
@@ -9,11 +9,13 @@
   &::before {
     content: "";
     background-image: url("../media/fundo.png");
-    background-size: cover;
+    background-size: 100vw;
     background-position: center;
+    background-repeat: no-repeat;
+    opacity: 0.5;
     top: 0;
     left: 0;
-    bottom: -40vh;
+    bottom: -30vh;
     right: 0;
     position: absolute;
     z-index: -1;
@@ -21,10 +23,11 @@
 
   &::after {
     content: "";
-    background-image: url("../media/banner.png");
+    background-image: url("../media/banner.svg");
     background-size: 100vw 200vh;
-    background-position: center;
+    background-position: 8vw;
     background-repeat: no-repeat;
+    mix-blend-mode: multiply;
     top: 0;
     left: 0;
     right: 0;

diff --git a/js/all.js b/js/all.js
@@ -5,6 +5,11 @@ $(document).ready(() => {
   $navbar = document.getElementById("navbar");
   $logoSmaller = false;
 
+  $(".cell-drag").hover(() => {
+    $("#interaction-hover")[0].classList.toggle("displayed");
+    $("#drag-end")[0].classList.toggle("displayed");
+  })
+
   if ($cell.length > 0) {
     $(".cell-drag").draggable({
       axis: "y",
@@ -95,6 +100,7 @@ $(window).scroll(() => {
   }
 })
 
+//function to open and close the sidebar menu that it's actually the about page
 function toggleSobre() {
   $('.about')[0].classList.toggle("opened");
   $('body')[0].style.overflow = $('body')[0].style.overflow === 'hidden' ? '' : 'hidden';
